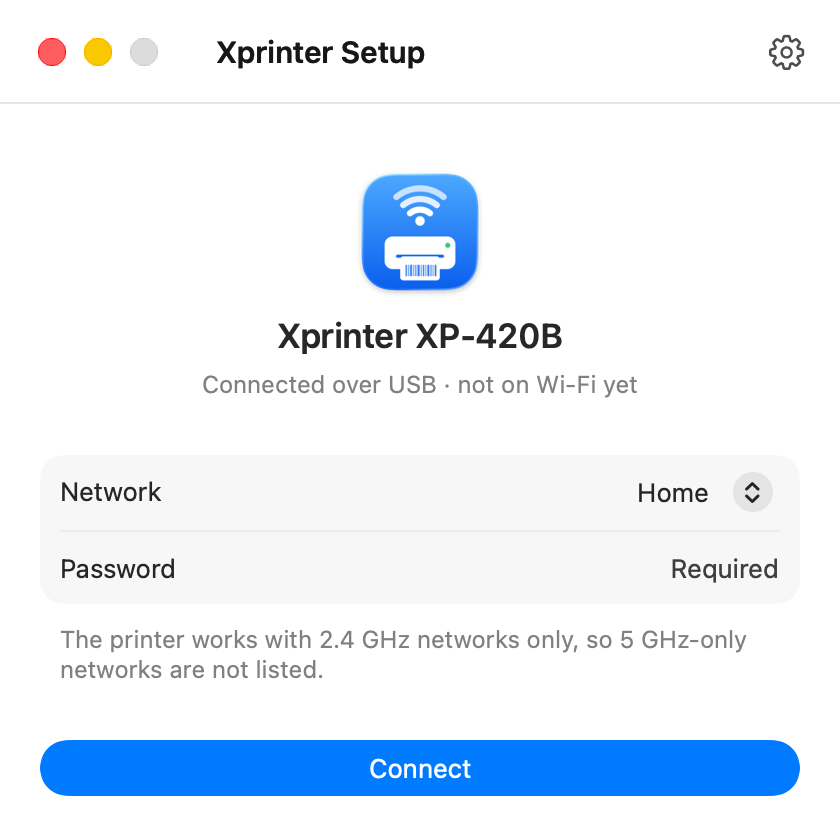
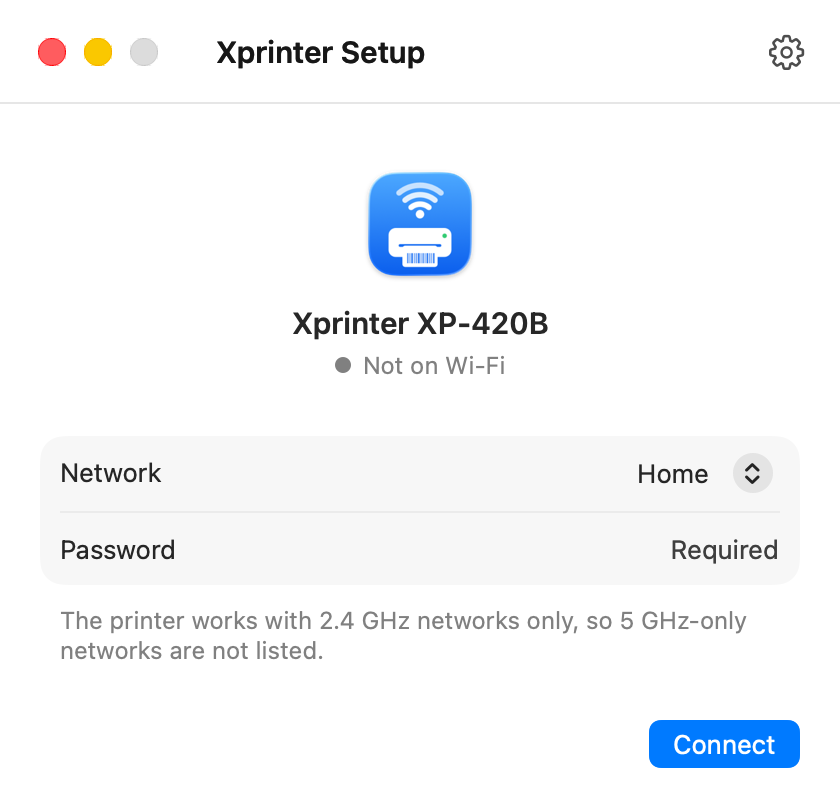
Calm status view instead of the celebratory done screen; trailing buttons

diff --git a/Sources/XprinterSetup/SetupView.swift b/Sources/XprinterSetup/SetupView.swift
@@ -29,6 +29,7 @@ struct SetupView: View {
             wifi.scan()
             if Demo.isOn { openWindow(id: "settings") }
         }
+        .onChange(of: printer.phase) { if $0 == .ready { changeNetwork = false } }
         .onChange(of: choice) {
             ssid = $0 == Self.other ? "" : $0
             if $0 != Self.other { passwordFocused = true }
@@ -40,22 +41,34 @@ struct SetupView: View {
     }
 
     private var header: some View {
-        VStack(spacing: 6) {
+        VStack(spacing: 4) {
             Image(nsImage: NSApp.applicationIconImage)
-                .resizable().frame(width: 72, height: 72)
+                .resizable().frame(width: 64, height: 64)
+                .padding(.bottom, 4)
             Text(printer.config?.model.map { "Xprinter \($0)" } ?? "Xprinter")
-                .font(.title2.weight(.semibold))
+                .font(.title3.weight(.semibold))
             statusLine.font(.callout).foregroundStyle(.secondary)
         }
     }
 
+    /// One calm line with a colored dot, like the status of a device in System Settings.
     @ViewBuilder private var statusLine: some View {
         if printer.config == nil {
             Text("Connect the printer with a USB cable, or turn it on if it is already set up on Wi-Fi.", bundle: .module)
-        } else if let ip = printer.config?.wifiIP {
-            Label { Text("On Wi-Fi · \(ip)", bundle: .module) } icon: { Image(systemName: "wifi") }
+                .multilineTextAlignment(.center).padding(.horizontal, 32)
+        } else if printer.config?.wifiIP == nil {
+            dot(.secondary) { Text("Not on Wi-Fi", bundle: .module) }
+        } else if printer.addedToMac {
+            dot(.green) { Text("Ready to print over Wi-Fi", bundle: .module) }
         } else {
-            Text("Connected over USB · not on Wi-Fi yet", bundle: .module)
+            dot(.orange) { Text("On Wi-Fi, not added to this Mac", bundle: .module) }
+        }
+    }
+
+    private func dot(_ color: Color, _ text: () -> Text) -> some View {
+        HStack(spacing: 6) {
+            Circle().fill(color).frame(width: 8, height: 8)
+            text()
         }
     }
 
@@ -66,54 +79,61 @@ struct SetupView: View {
 
         case .working(let step):
             VStack(spacing: 12) {
-                ProgressView()
-                Text(step).foregroundStyle(.secondary)
+                ProgressView().controlSize(.small)
+                Text(step).font(.callout).foregroundStyle(.secondary)
             }
-            .padding(.vertical, 32)
-
-        case .done(let queue, let ip):
-            VStack(spacing: 10) {
-                Image(systemName: "checkmark.circle.fill").font(.system(size: 40)).foregroundStyle(.green)
-                Text("All set", bundle: .module).font(.headline)
-                Text("Choose “\(queue)” in any Print dialog. The printer’s address is \(ip). You can unplug the USB cable.", bundle: .module)
-                    .multilineTextAlignment(.center).foregroundStyle(.secondary)
-                Button { changeNetwork = false; printer.phase = .ready } label: { Text("Done", bundle: .module) }
-                    .keyboardShortcut(.defaultAction).padding(.top, 6)
-            }
-            .padding(24)
+            .padding(.vertical, 36)
 
         case .ready, .failed:
             if let ip = printer.config?.wifiIP, !changeNetwork, printer.phase == .ready {
-                onWiFi(ip: ip)
+                status(ip: ip)
             } else {
                 form
             }
         }
     }
 
-    /// Printer already on Wi-Fi: nothing to type. Either all is set, or one click adds it to macOS.
-    private func onWiFi(ip: String) -> some View {
-        VStack(spacing: 10) {
-            if printer.addedToMac {
-                Image(systemName: "checkmark.circle.fill").font(.system(size: 40)).foregroundStyle(.green)
-                Text("The printer works over Wi-Fi", bundle: .module).font(.headline)
-                Text("Choose “\(printer.wifiQueueTitle)” in any Print dialog.", bundle: .module)
-                    .multilineTextAlignment(.center).foregroundStyle(.secondary)
-            } else {
-                Text("The printer is on Wi-Fi but not added to this Mac yet.", bundle: .module)
-                    .multilineTextAlignment(.center).foregroundStyle(.secondary)
-                Button { printer.addToMac() } label: { Text("Add to This Mac", bundle: .module).frame(maxWidth: .infinity) }
-                    .controlSize(.large).buttonStyle(.borderedProminent).keyboardShortcut(.defaultAction)
-            }
-            if printer.link == .usb {
-                Button { changeNetwork = true } label: { Text("Connect to Another Network…", bundle: .module) }
-                    .buttonStyle(.link).padding(.top, 6)
-            } else {
-                Text("Connected over Wi-Fi. To change the network, connect the USB cable.", bundle: .module)
-                    .font(.callout).foregroundStyle(.secondary).multilineTextAlignment(.center).padding(.top, 6)
+    /// Printer on Wi-Fi: facts about it, nothing to type.
+    private func status(ip: String) -> some View {
+        Form {
+            Section {
+                LabeledContent { Text(ip).textSelection(.enabled) } label: { Text("IP Address", bundle: .module) }
+                LabeledContent {
+                    printer.addedToMac ? Text(printer.wifiQueueTitle) : Text("Not added", bundle: .module)
+                } label: { Text("Printer in macOS", bundle: .module) }
+                LabeledContent {
+                    printer.link == .usb ? Text("USB") : Text("Wi-Fi")
+                } label: { Text("Connected via", bundle: .module) }
+            } footer: {
+                Group {
+                    if !printer.addedToMac {
+                        Text("Add the printer to print to it from this Mac.", bundle: .module)
+                    } else if printer.link == .usb {
+                        Text("Choose this printer in the Print dialog of any app. You can unplug the USB cable.", bundle: .module)
+                    } else {
+                        Text("Choose this printer in the Print dialog of any app. To change its Wi-Fi network, connect the USB cable.", bundle: .module)
+                    }
+                }
+                .font(.callout).foregroundStyle(.secondary)
             }
         }
-        .padding(.horizontal, 24).padding(.top, 16).padding(.bottom, 24)
+        .formStyle(.grouped)
+        .scrollDisabled(true)
+        .safeAreaInset(edge: .bottom) {
+            HStack {
+                if printer.link == .usb {
+                    Button { changeNetwork = true } label: { Text("Change Network…", bundle: .module) }
+                }
+                Spacer()
+                if printer.addedToMac {
+                    Button { openWindow(id: "settings") } label: { Text("Printer Settings…", bundle: .module) }
+                } else {
+                    Button { printer.addToMac() } label: { Text("Add to This Mac", bundle: .module) }
+                        .buttonStyle(.borderedProminent).keyboardShortcut(.defaultAction)
+                }
+            }
+            .padding([.horizontal, .bottom], 20)
+        }
     }
 
     private var form: some View {
@@ -145,13 +165,17 @@ struct SetupView: View {
         .formStyle(.grouped)
         .scrollDisabled(true)
         .safeAreaInset(edge: .bottom) {
-            Button { printer.connect(ssid: ssid, password: password) } label: {
-                Text("Connect", bundle: .module).frame(maxWidth: .infinity)
+            HStack {
+                Spacer()
+                if changeNetwork {
+                    Button { changeNetwork = false; printer.phase = .ready } label: { Text("Cancel", bundle: .module) }
+                        .keyboardShortcut(.cancelAction)
+                }
+                Button { printer.connect(ssid: ssid, password: password) } label: { Text("Connect", bundle: .module) }
+                    .buttonStyle(.borderedProminent)
+                    .keyboardShortcut(.defaultAction)
+                    .disabled(printer.config == nil || ssid.isEmpty)
             }
-            .controlSize(.large)
-            .buttonStyle(.borderedProminent)
-            .keyboardShortcut(.defaultAction)
-            .disabled(printer.config == nil || ssid.isEmpty)
             .padding([.horizontal, .bottom], 20)
         }
     }

diff --git a/Sources/XprinterSetup/PrinterModel.swift b/Sources/XprinterSetup/PrinterModel.swift
@@ -10,7 +10,6 @@ final class PrinterModel: ObservableObject {
         case waitingForPrinter
         case ready
         case working(String)
-        case done(queue: String, ip: String)
         case failed(String)
     }
 
@@ -95,7 +94,7 @@ final class PrinterModel: ObservableObject {
                 phase = .working(loc("Adding the printer to macOS…"))
                 try await Self.background { try CUPS.addOrUpdateWiFiQueue(model: model, ip: ip) }
                 await reload()
-                phase = .done(queue: wifiQueueTitle, ip: ip)
+                phase = .ready
             } catch {
                 phase = .failed(error.localizedDescription)
             }
@@ -139,9 +138,10 @@ final class PrinterModel: ObservableObject {
                 phase = .working(loc("Adding the printer to macOS…"))
                 let model = config?.model ?? "Printer"
                 let queue = try await Self.background { try CUPS.addOrUpdateWiFiQueue(model: model, ip: ip) }
-                await reload()
                 _ = queue
-                phase = .done(queue: wifiQueueTitle, ip: ip)
+                link = .usb
+                await reload()
+                phase = .ready
             } catch {
                 phase = .failed(error.localizedDescription)
             }

diff --git a/Sources/XprinterSetup/Demo.swift b/Sources/XprinterSetup/Demo.swift
@@ -38,7 +38,7 @@ enum Demo {
         await save(window: loc("Printer Settings"), as: "settings-\(lang)")
         await save(window: loc("Xprinter Setup"), as: "setup-\(lang)")
         model.config = configWith(ip: "192.168.1.50")
-        model.phase = .done(queue: "Xprinter XP-420B (Wi-Fi)", ip: "192.168.1.50")
+        model.addedToMac = true
         try? await Task.sleep(nanoseconds: 1_000_000_000)
         await save(window: loc("Xprinter Setup"), as: "done-\(lang)")
         NSApp.terminate(nil)
